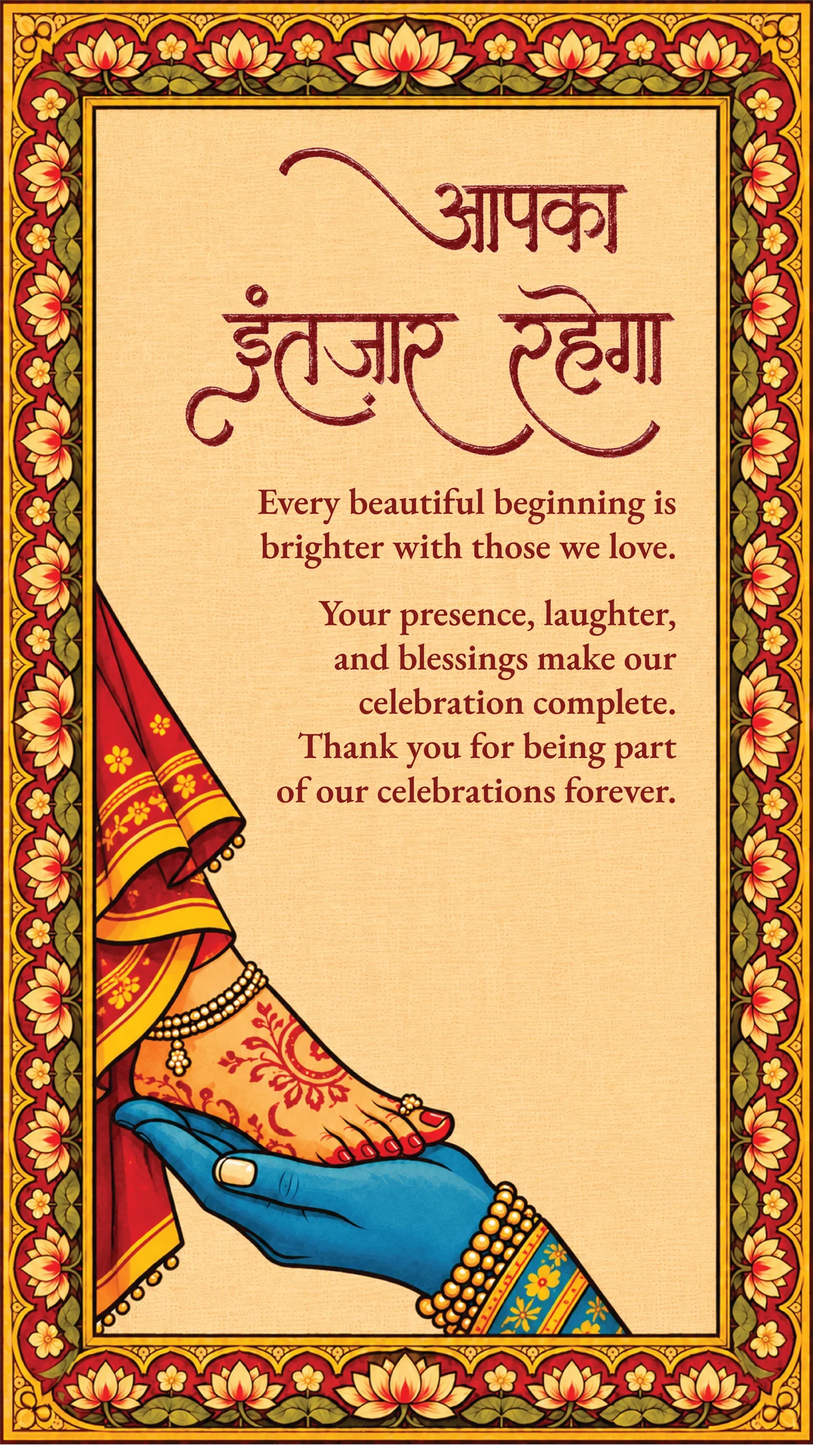
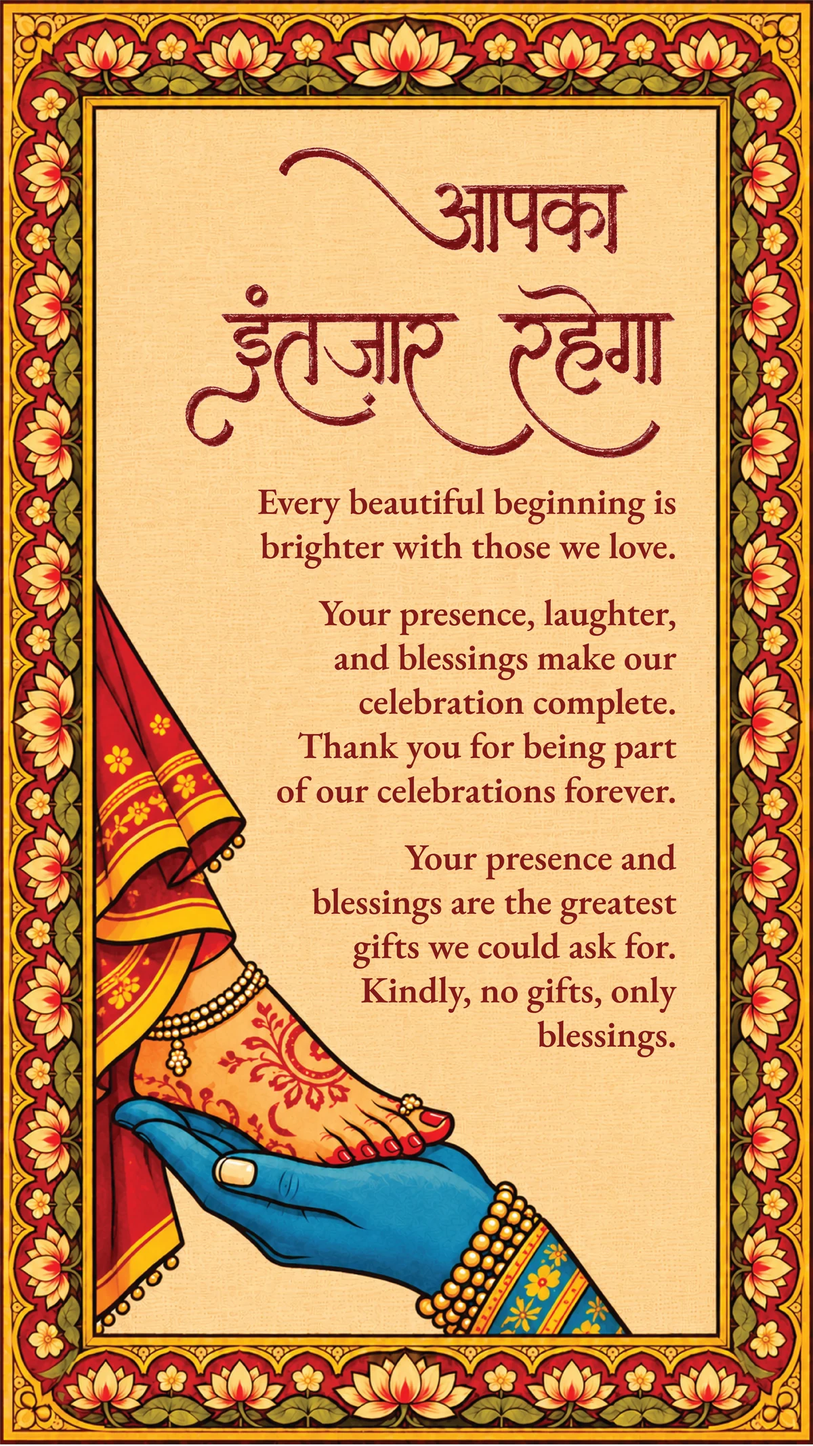
Update last page with 'no gifts, only blessings' text; bump image version
Claude-Session: https://claude.ai/code/session_01NWMq9HgDbfLBKdrV4t5sHr

Changed region(s): [[0.37, 0.5879, 0.8325, 0.7426]]

diff --git a/index.html b/index.html
@@ -100,7 +100,7 @@ var EVENT = {
 };
 
 // Bump this number whenever you replace the images, so phones fetch the new ones.
-var IMG_VERSION = 4;
+var IMG_VERSION = 5;
 
 // The pages, in order (one 9:16 image each).
 var pages = [
